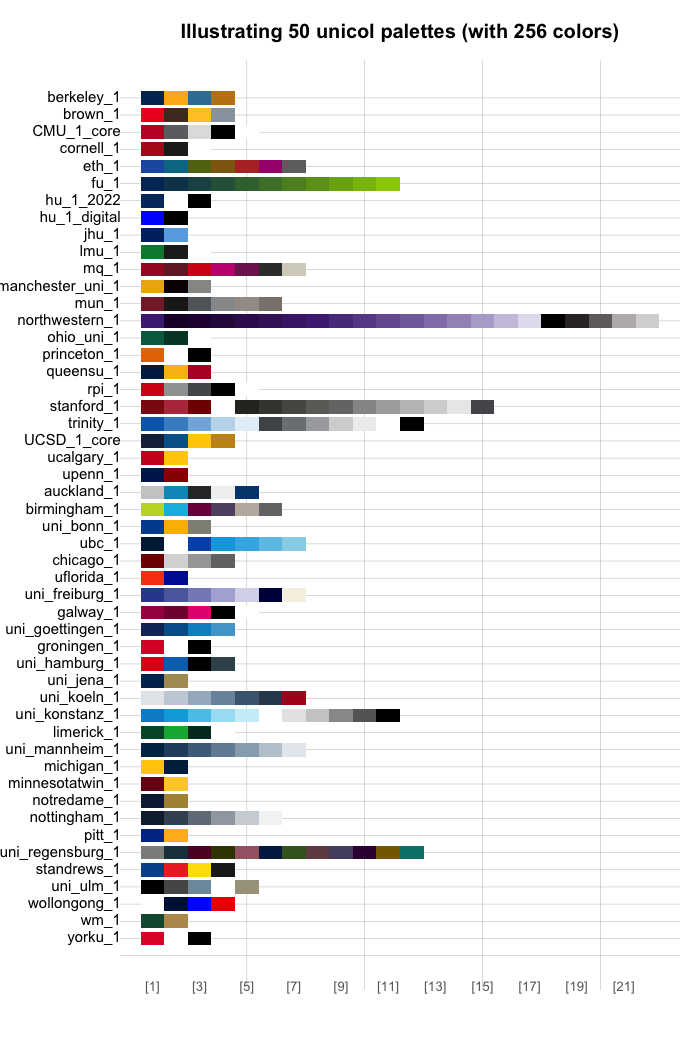
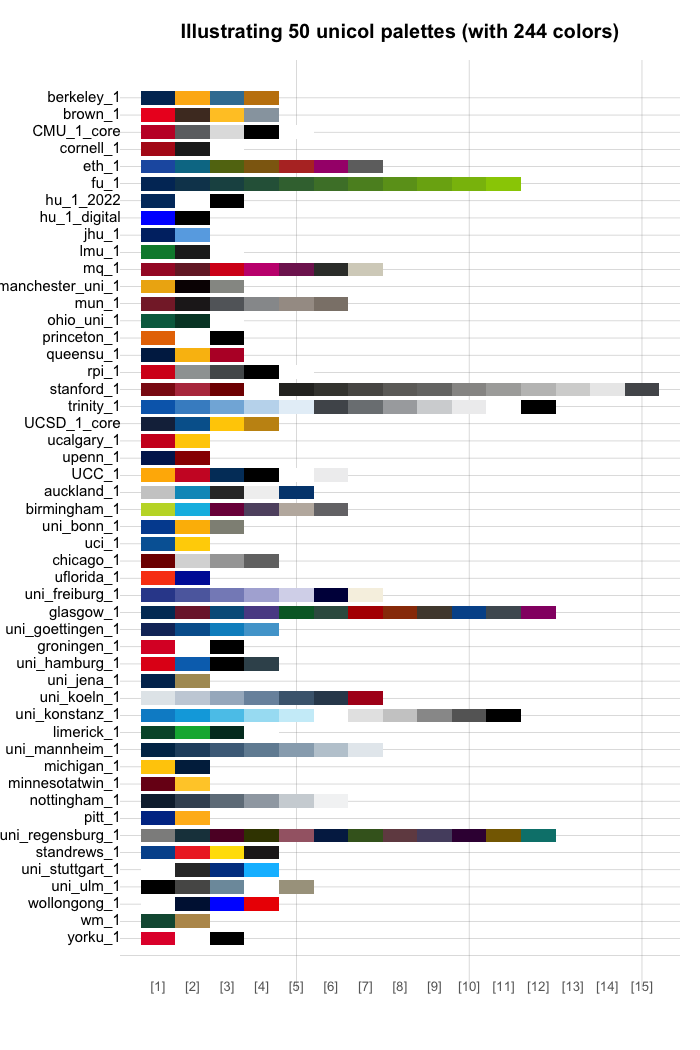
increment version

diff --git a/README.md b/README.md
@@ -15,7 +15,7 @@ status](https://www.r-pkg.org/badges/version/unicol)](https://CRAN.R-project.org
 <!-- [![DOI](https://zenodo.org/badge/DOI/10.5281/zenodo.8252106.svg)](https://doi.org/10.5281/zenodo.8252106) -->
 <!-- Release badges end. -->
 
-# unicol 0.1.0.9012 <img src = "man/figures/logo.png" align = "right" alt = "unicol::" width = "165px" alt="" />
+# unicol 0.1.0.9013 <img src = "man/figures/logo.png" align = "right" alt = "unicol::" width = "165px" alt="" />
 
 <!-- unicol pkg logo and link: -->
 <!-- <a href = "https://CRAN.R-project.org/package=unicol"> -->
@@ -79,8 +79,8 @@ library(unikn)   # for color functions
 
 ## Contents
 
-The **unicol** package currently provides **228 color palettes** from
-**98 institutions**.
+The **unicol** package currently provides **230 color palettes** from
+**99 institutions**.
 
 <!-- **Table\ 1** provides an overview of all color palettes:  -->
 
@@ -92,18 +92,18 @@ palettes and institutions.)
 
 ### Examples of color palettes
 
-<!-- The **unicol** package currently contains **228\ color palettes** from **98\ institutions**.  -->
+<!-- The **unicol** package currently contains **230\ color palettes** from **99\ institutions**.  -->
 <!-- Example 1: Random pals (from vignette color_pals.Rmd): -->
 <!-- Show as a table: -->
 <!-- Show as a figure: -->
 
-**Figure 1** illustrates 50 random color palettes (with 256 colors):
+**Figure 1** illustrates 50 random color palettes (with 244 colors):
 
 <div class="figure" style="text-align: center">
 
-<img src="man/figures/README-unicol-pals-example-1-figure-1.png" alt="Figure 1: A sample of 50 unicol palettes (containing 256 colors)." width="600px" />
+<img src="man/figures/README-unicol-pals-example-1-figure-1.png" alt="Figure 1: A sample of 50 unicol palettes (containing 244 colors)." width="600px" />
 <p class="caption">
-Figure 1: A sample of 50 unicol palettes (containing 256 colors).
+Figure 1: A sample of 50 unicol palettes (containing 244 colors).
 </p>
 
 </div>
